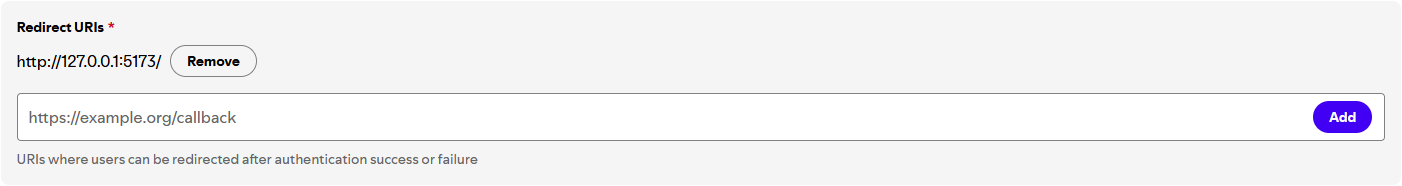
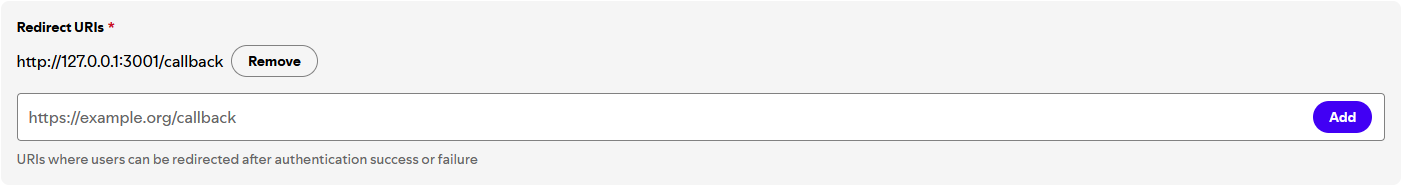
added a lot to readme

diff --git a/utils/get_refresh_token.js b/utils/get_refresh_token.js
@@ -32,8 +32,6 @@ const SCOPE = getEnv('SPOTIFY_SCOPE') || 'user-read-currently-playing user-read-
 // Upstash REST API variables from .env (as you listed)
 const UPSTASH_REST_API_URL = getEnv('middleware_KV_REST_API_URL');
 const UPSTASH_REST_API_TOKEN = getEnv('middleware_KV_REST_API_TOKEN');
-// optional read-only token
-const UPSTASH_READ_ONLY = getEnv('middleware_KV_REST_API_READ_ONLY_TOKEN');
 
 if (!SPOTIFY_CLIENT_ID || !SPOTIFY_CLIENT_SECRET) {
   console.error('SPOTIFY_CLIENT_ID and SPOTIFY_CLIENT_SECRET must be set in .env or environment.');
@@ -101,7 +99,6 @@ function startServer() {
         // store refresh token in Upstash
         if (tokens.refresh_token) {
           await upstashSet('spotify:refresh_token', tokens.refresh_token);
-          // Print a copy-pastable line to add to .env if the user wants to keep a local fallback
           const safe = tokens.refresh_token.includes(' ') ? `"${tokens.refresh_token.replace(/"/g, '\\"')}"` : tokens.refresh_token;
           console.log('\nAdd this line to your .env (optional local fallback):');
           console.log(`SPOTIFY_REFRESH_TOKEN="${safe}"\n`);

diff --git a/README.md b/README.md
@@ -13,7 +13,7 @@ This project provides a simple Express server with three main API endpoints, eac
 
 | Package                                                     | Description                                                                                                                      |
 | ----------------------------------------------------------- | -------------------------------------------------------------------------------------------------------------------------------- |
-| [express](https://expressjs.com/)                           | A minimal and flexible Node.js web application framework that provides a robust set of features for web and mobile applications. |
+| [express](https://expressjs.com)                            | A minimal and flexible Node.js web application framework that provides a robust set of features for web and mobile applications. |
 | [serve-favicon](https://github.com/expressjs/serve-favicon) | A middleware for serving a favicon.                                                                                              |
 | [http-errors](https://github.com/jshttp/http-errors)        | Create HTTP errors for Express, Koa, Connect, etc.                                                                               |
 | [axios](https://axios-http.com/docs/intro)                  | Promise based HTTP client for the browser and node.js                                                                            |
@@ -97,73 +97,65 @@ Obtain an access token via a stored refresh token, and fetch the currently-playi
 - `SPOTIFY_CLIENT_SECRET`: The `Client Secret` from the app created in [Spotify for Developers](https://developer.spotify.com/dashboard/create)
 - `SPOTIFY_REFRESH_TOKEN`: The refresh token gotten after following the steps provided in the [Spotify Setup](#spotify-setup) section
 
-#### Spotify Endpoints
+> [!NOTE]
+> We use an [Upstash Redis database](https://upstash.com/docs/redis/overall/getstarted) to store (and update) the `SPOTIFY_REFRESH_TOKEN` and a few otehr variables (more details will be explained in the [Spotify Setup](#spotify-setup) section)
+>
+> These `middleware_*` Variables are also used in the [`utils/get_refresh_token.js`](./utils/get_refresh_token.js) script
 
-- Token endpoint: `https://accounts.spotify.com/api/token`
-- Now playing: `https://api.spotify.com/v1/me/player/currently-playing`
-
-#### Behavior
-
-- `getAccessToken(...)` posts `grant_type=refresh_token` to Spotify's token endpoint using HTTP Basic auth (`clientId:clientSecret` base64 encoded).
-- `getNowPlaying()` calls `getAccessToken` with the env vars, then requests the now-playing endpoint with `Authorization: Bearer <access_token>`, normalizes the response, and returns a simplified object on success. If no track is playing or an error occurs it returns an error message string.
+- `middleware_KV_REST_API_URL`: The Upstash Redis Database URL
+- `middleware_KV_REST_API_TOKEN`: The Upstash Redis Database API Token
 
 #### Spotify Setup
 
 [This article](https://medium.com/@alagappan.dev/create-a-now-playing-widget-using-the-spotify-web-api-in-react-a6cb564ed923) helped setting up the API calls and tokens for the now playing card. The steps to connect to your spotify account is very convoluted compared to the other endpoints. This is because Spotify is a bitchass crybaby.
 
-- First, head over to [Spotify for Developers](https://developer.spotify.com/), create a new app, and fill in the details
+- First, head over to [Spotify for Developers](https://developer.spotify.com), create a new app, and fill in the details
 - Take Note of the `Client ID` and the `Client Secret`
+
   ![App Dashboard Secrets](./assets/spotifyDevDash.png)
-- Next, add the local host IP (`https://127.0.0.1:5173/`) (Spotify has blacklisted `http://localhost:5173/` from being used as a redirect URI in the [latest update](https://developer.spotify.com/documentation/web-api/concepts/redirect_uri))
+
+- Next, add the local host IP (`http://127.0.0.1:3001/callback`) (Spotify has blacklisted `http://localhost:5173/` from being used as a redirect URI in the [latest update](https://developer.spotify.com/documentation/web-api/concepts/redirect_uri))
+
+  ```plaintext
+  http://127.0.0.1:3001/callback
+  ```
+
   ![Redirect URIs](./assets/spotifyDevRedirects.png)
 
-Now, we generate a "Refresh Token", which will be used to generate fresh "Access Tokens" for the actual api call.
+Now, we setup an Upstash Redis Database to store the Refresh token, the fresh access token and its ttl.
 
-- Modify the below url with your `Client ID` from the [Spotify for Developers dashboard](https://developer.spotify.com/dashboard)
+> [!NOTE]
+> The following steps assume you are using Vercel to deploy this service
 
-  ```plaintext
-  https://accounts.spotify.com/en/authorize?client_id=<YOUR_CLIENT_ID>&response_type=code&redirect_uri=http%3A%2F%2F127.0.0.1:5173%2F&scope=user-read-currently-playing
-  ```
+- In your deployed project's page, head over to the stores tab
 
-- Agree to the authorization in this page
-  ![Authoirization Page](assets/spotifyAuth.png)
+  ![Vercel Dashboard](./assets/VercelDashboard.png)
 
-- Next, take note of the url of the redirected page, it should have a `?code=` parameter, like so,
+- Then `Create a Database` and select the `Upstash for Redis` option
 
-  ```plaintext
-  http://127.0.0.1:5173/?code=<SOME_REALLY_LONG_STRING>
-  ```
+  ![Storage Options](./assets/StorageOptions.png)
 
-- Now, generate a `base64` string of the form `<YOUR_CLIENT_ID>:<YOUR_CLIENT_SECRET>` (`e81...a07:0b0...57c`). The base64 scting can be generated [online here](https://www.base64encode.org/)
-- Modify this `curl` command by adding the generated base64 string, and the `code` from the url earlier
+  > [!NOTE]
+  > You will be asked to create a free account!
 
-  ```bash
-  curl
-  -H "Authorization: Basic <BASE64_CLIENT_ID_AND_SECRET_STRING>"
-  -d grant_type=authorization_code
-  -d code=<CODE_FROM_URL>
-  -d redirect_uri=http://127.0.0.1:5173/ https://accounts.spotify.com/api/token
-  ```
+- Follow the steps in the following pages and select the free tier (unless you are willing to pay!) and create a database
+- When prompted to enter a custom prefix, put in `middleware` (this repo uses the `middleware` prefix, you can use whatever you want!)
 
-  the command should look something like this:
+  ![custom prefix dialogue](./assets/CustomPrefixDialogue.png)
 
-  ```bash
-  curl -H "Authorization: Basic ZTg...N2M=" -d grant_type=authorization_code -d code=AQA...Eag -d redirect_uri=http://127.0.0.1:5173/ https://accounts.spotify.com/api/token
-  ```
+- In the console page, you will find the enviroonment variables for the Upstash Redis Database. Save these in your `.env` file for local development and the setup
 
-- The `curl` command should return the following response. From this, make note of the `refresh_token`
+  ![upstash redis console](./assets/UpstashRedisConsole.png)
 
-  ```json
-  {
-    "access_token": "BQD...fSw",
-    "token_type": "Bearer",
-    "expires_in": 3600,
-    "refresh_token": "AQA...OGw",
-    "scope": "user-read-currently-playing"
-  }
-  ```
+> [!Tip]
+> Follow the [Local Development](#local-development) steps before continuing to simplify the whole process!
 
-- Now, store all the noted values of `Client ID`, `Client Secrt`, and this `refresh_token` in their respective environemt variables (see [Spotify Envs](#spotify-envs))
+Once this prereq is complete, simply run the [utility script](./utils/get_refresh_token.js) and follow the steps to generate a spotify refresh token and store it in the Redis Database!
+
+```bash
+npm i
+node utils/get_refresh_token.js
+```
 
 ---
 
@@ -194,6 +186,6 @@ npm start
 > [!TIP]
 > You can use an API client to test the endpoints
 >
-> Try out [Yaak Client](https://github.com/mountain-loop/yaak) or [Hoppscotch Web App](https://hoppscotch.io/)
+> Try out [Yaak Client](https://github.com/mountain-loop/yaak) or [Hoppscotch Web App](https://hoppscotch.io)
 
 ---
